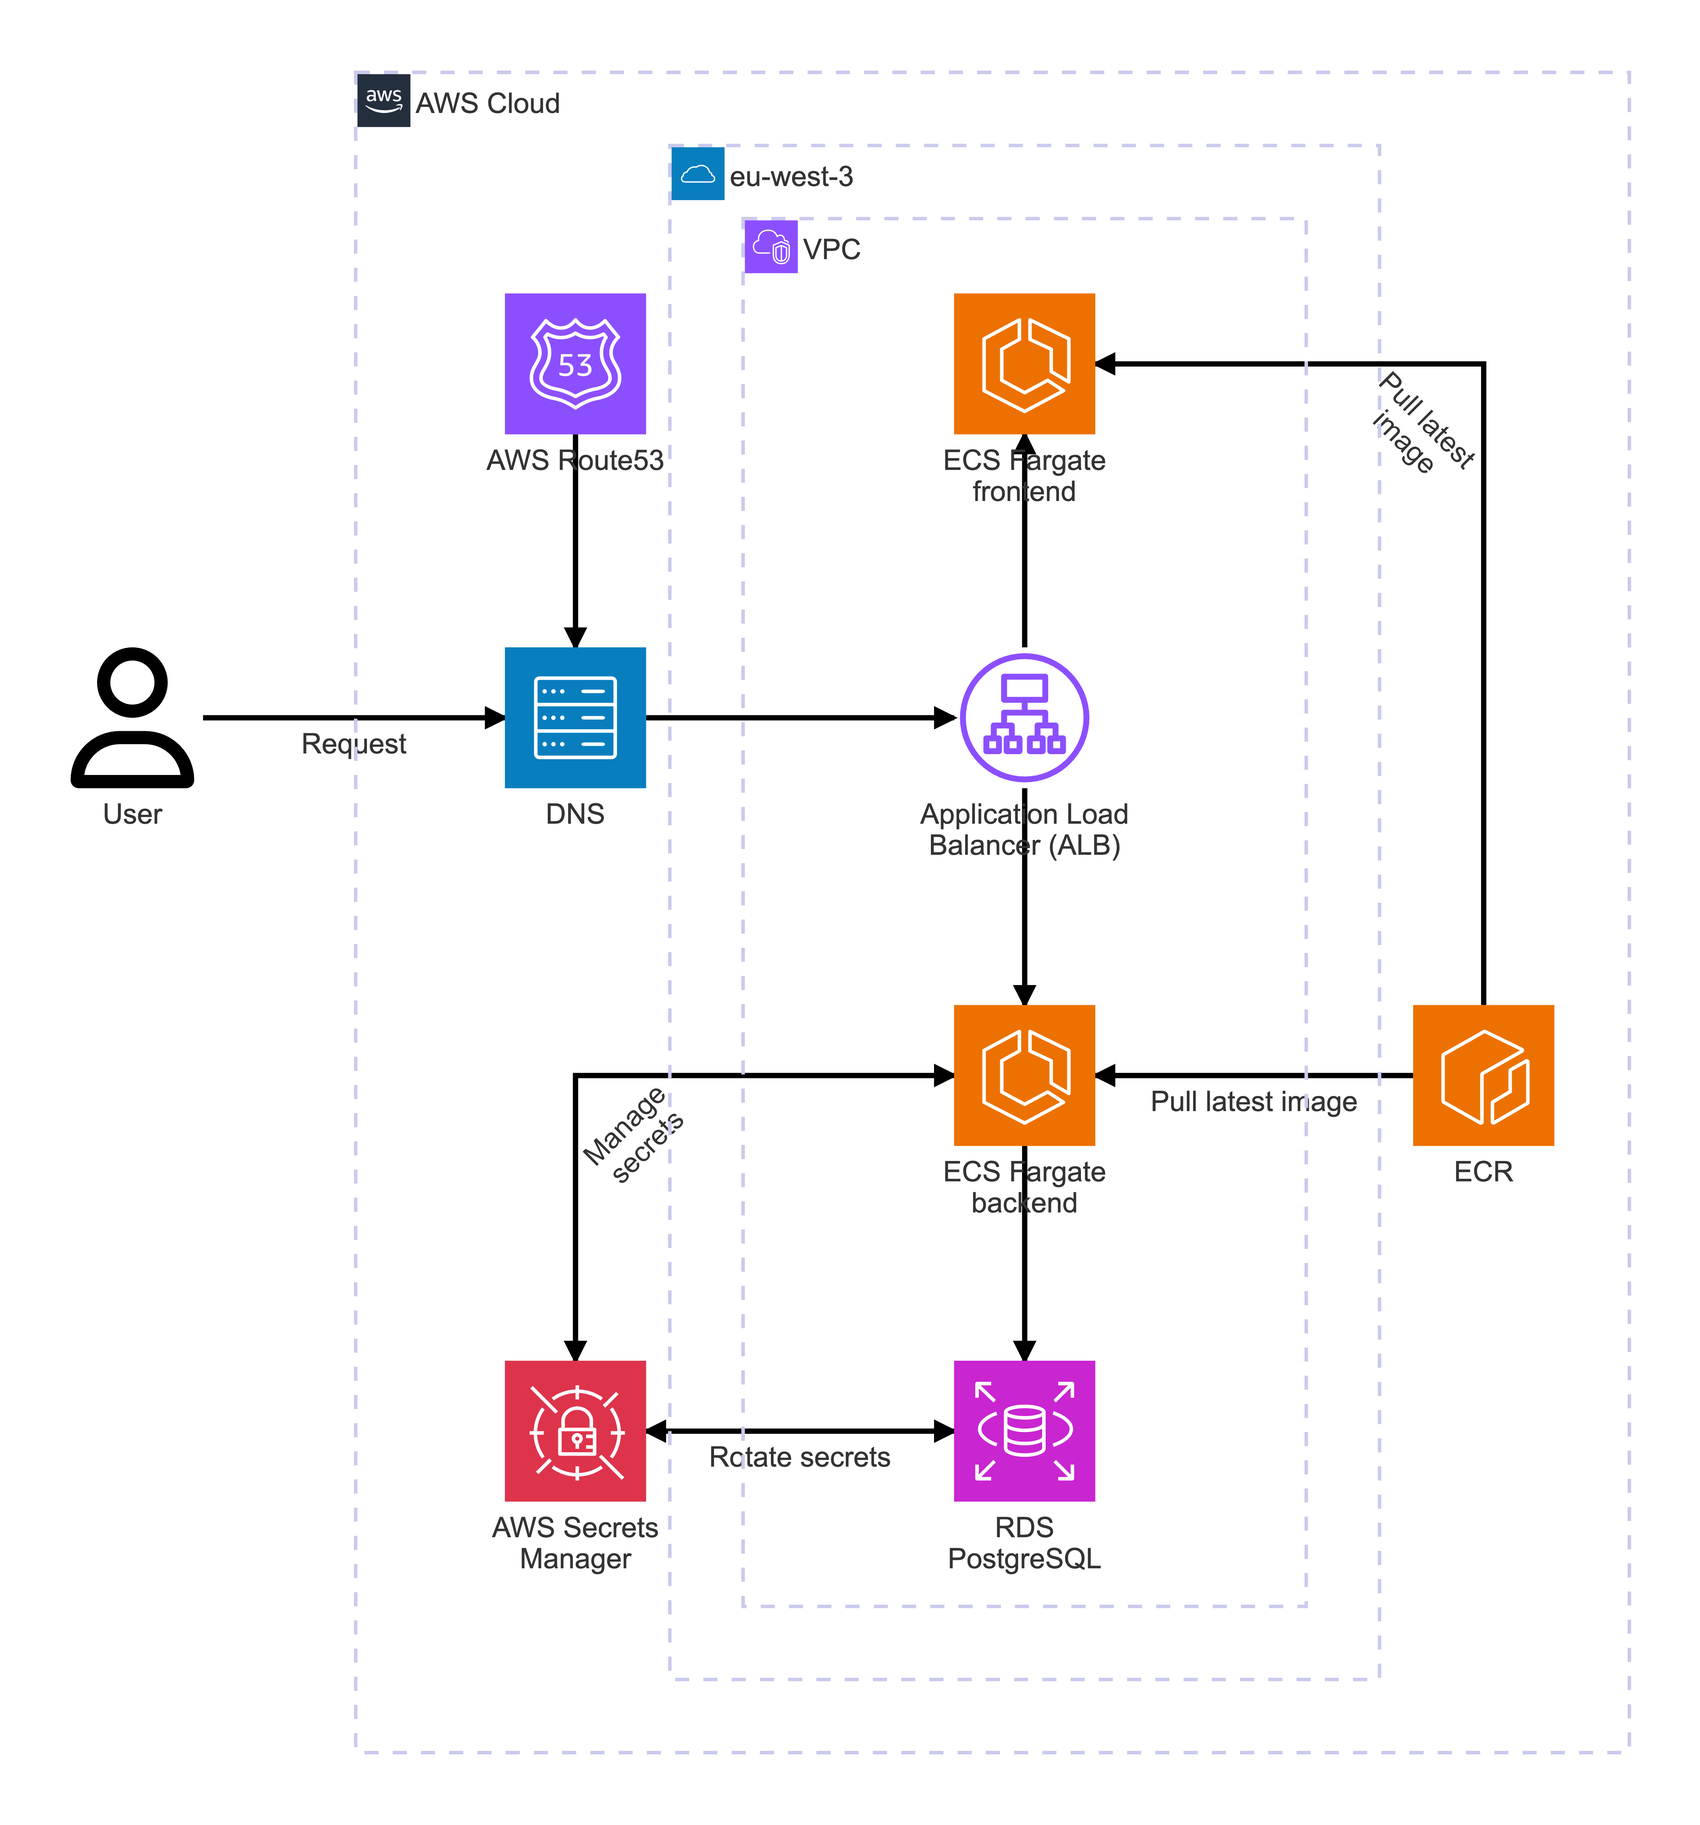
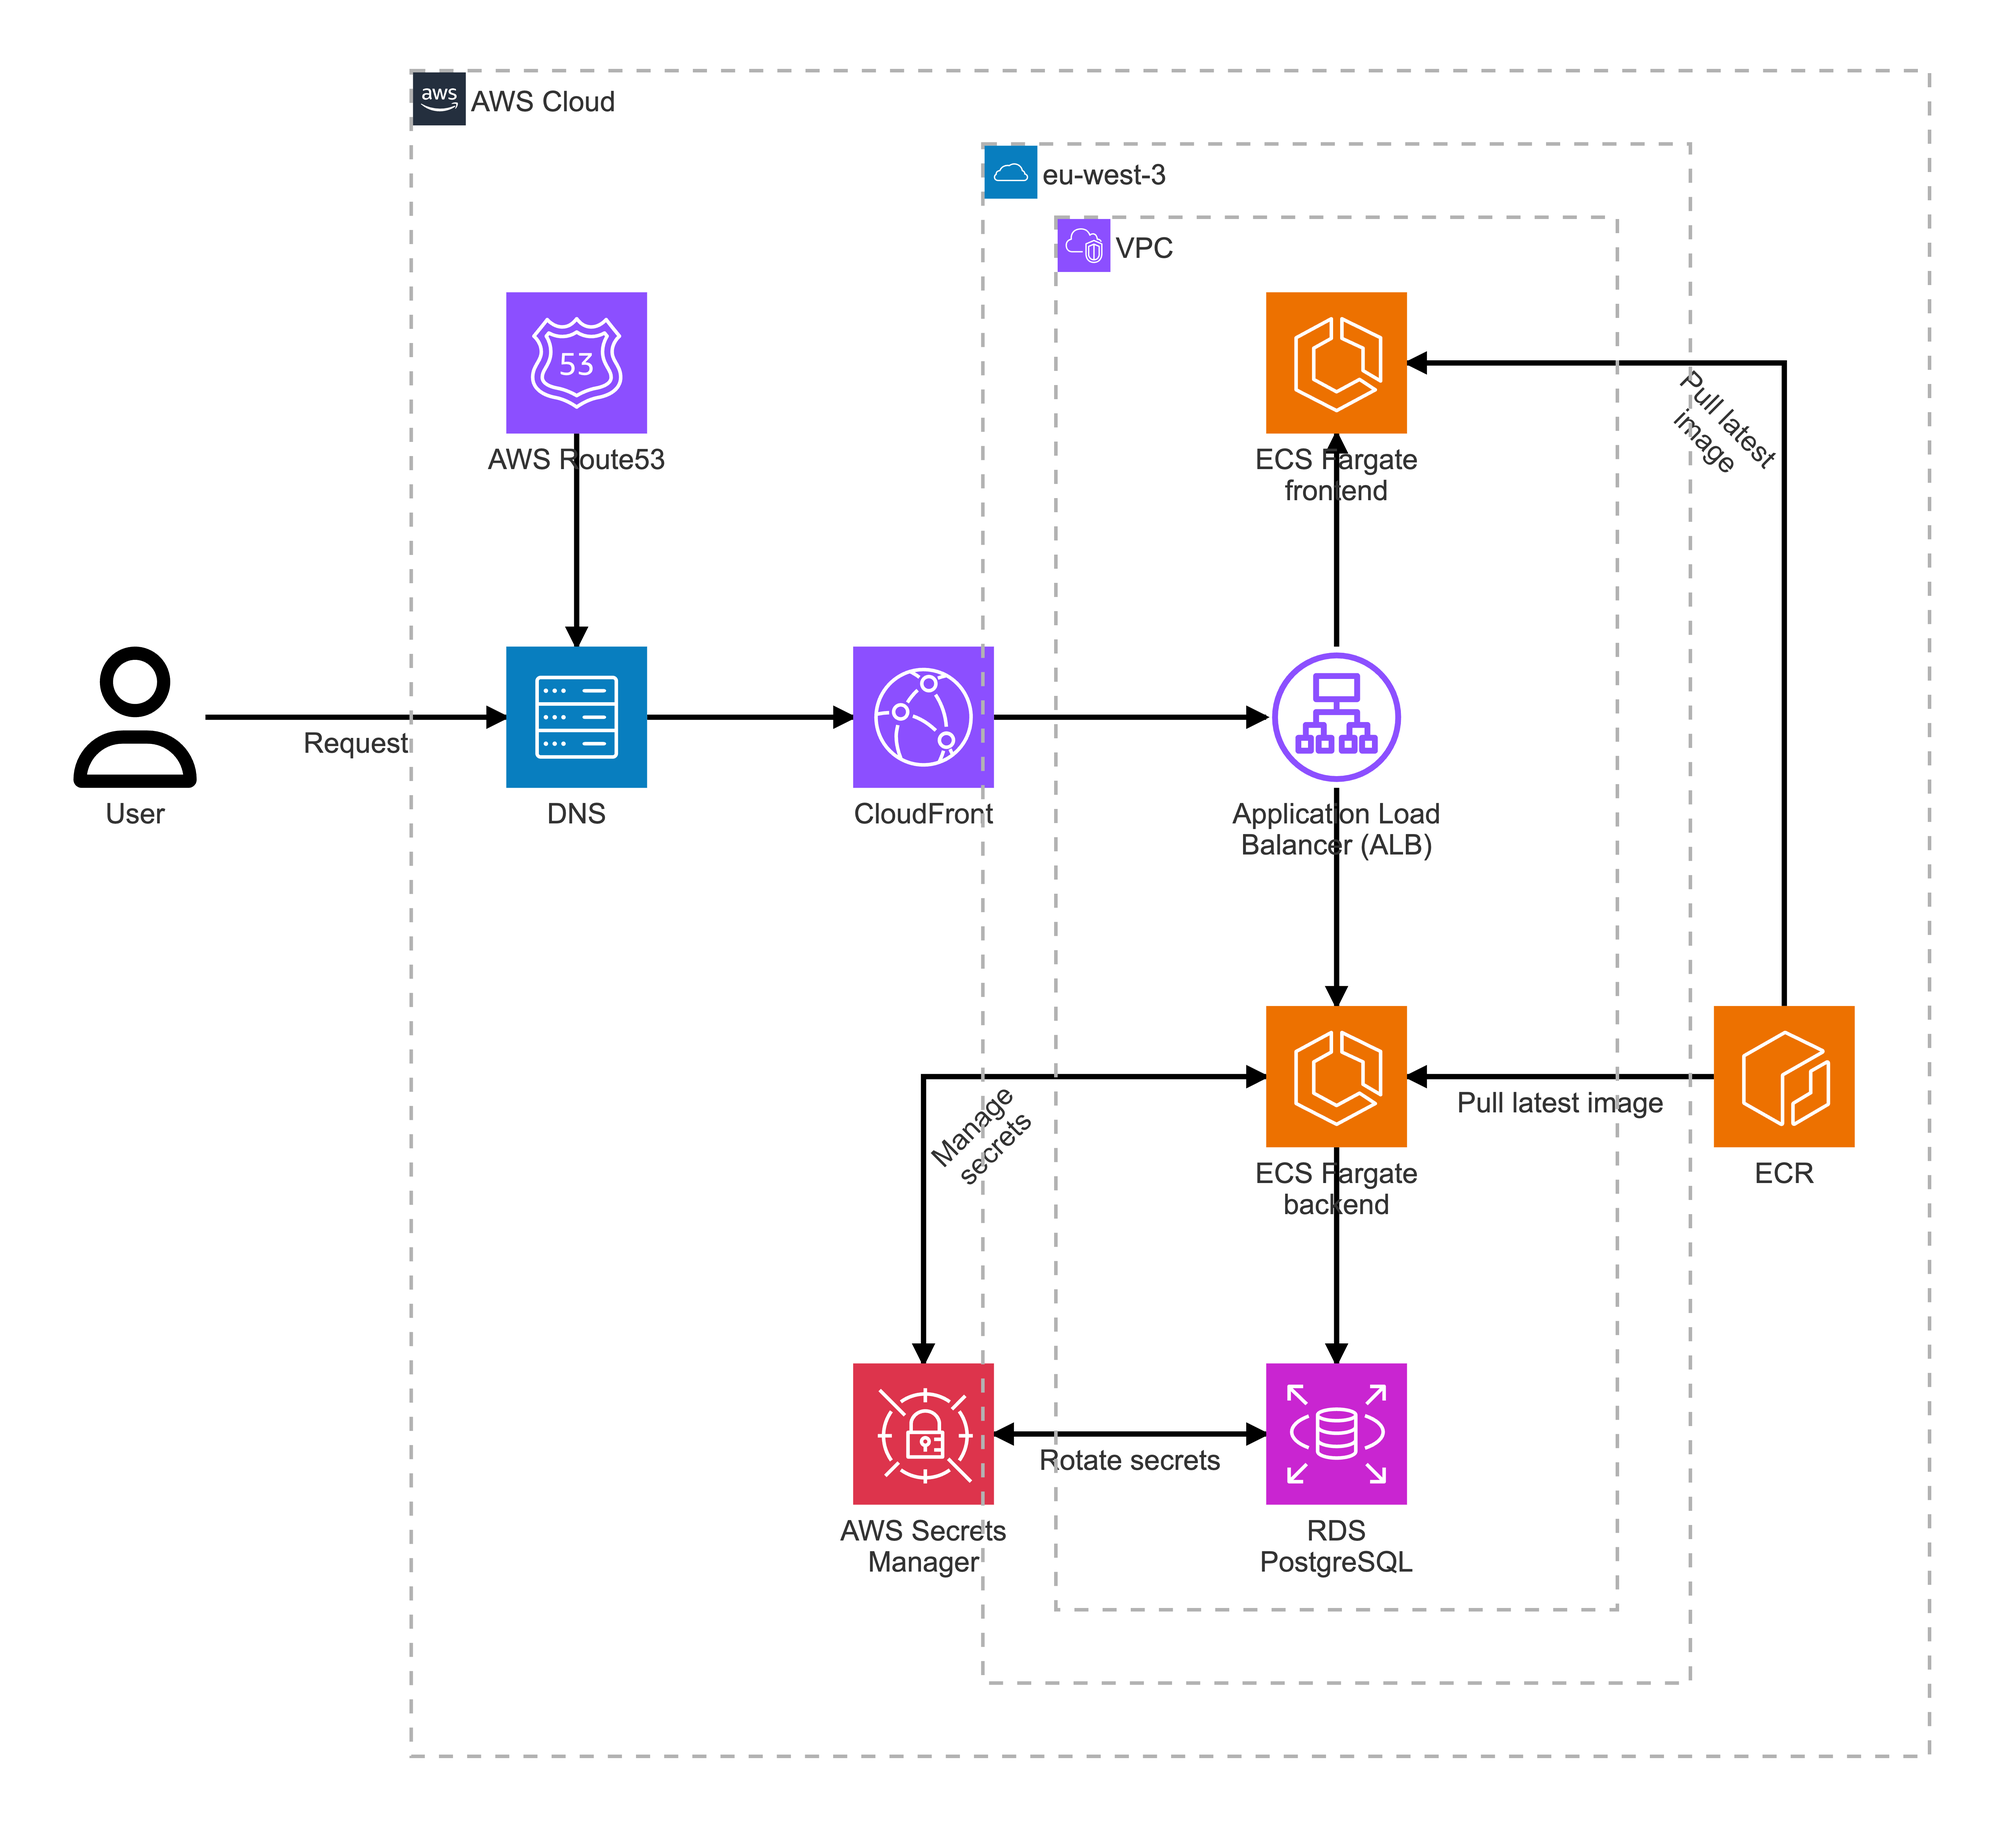
Add CloudFront

diff --git a/doc/diagrams/architecture.md b/doc/diagrams/architecture.md
@@ -7,6 +7,8 @@ group aws(aws:aws-cloud-logo)[AWS Cloud]
 
 service dns(server)[DNS] in aws
 service route53(aws:arch-amazon-route-53)[AWS Route53] in aws
+service cloudfront(aws:arch-amazon-cloudfront)[CloudFront] in aws
+
 group fr(cloud)["eu-west-3"] in aws
 
 group vpc(aws:arch-amazon-virtual-private-cloud)["VPC"] in fr
@@ -21,7 +23,8 @@ service secretsmanager(aws:arch-aws-secrets-manager)[AWS Secrets Manager] in aws
 
 user:R -[Request]-> L:dns
 route53:B --> T:dns
-dns:R --> L:alb
+dns:R --> L:cloudfront
+cloudfront:R --> L:alb
 
 alb:T --> B:ecsfront
 
